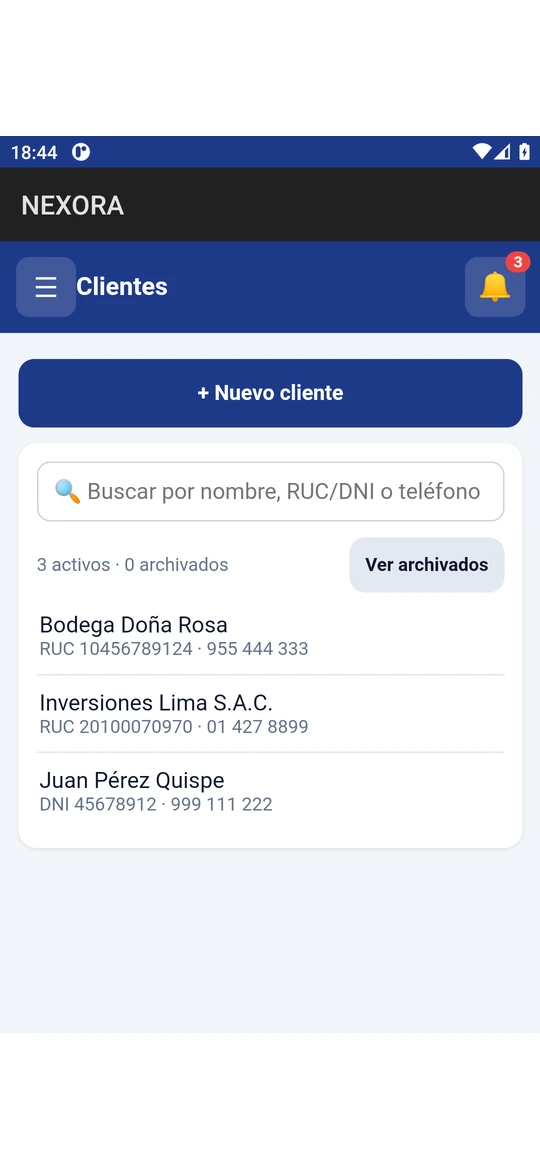
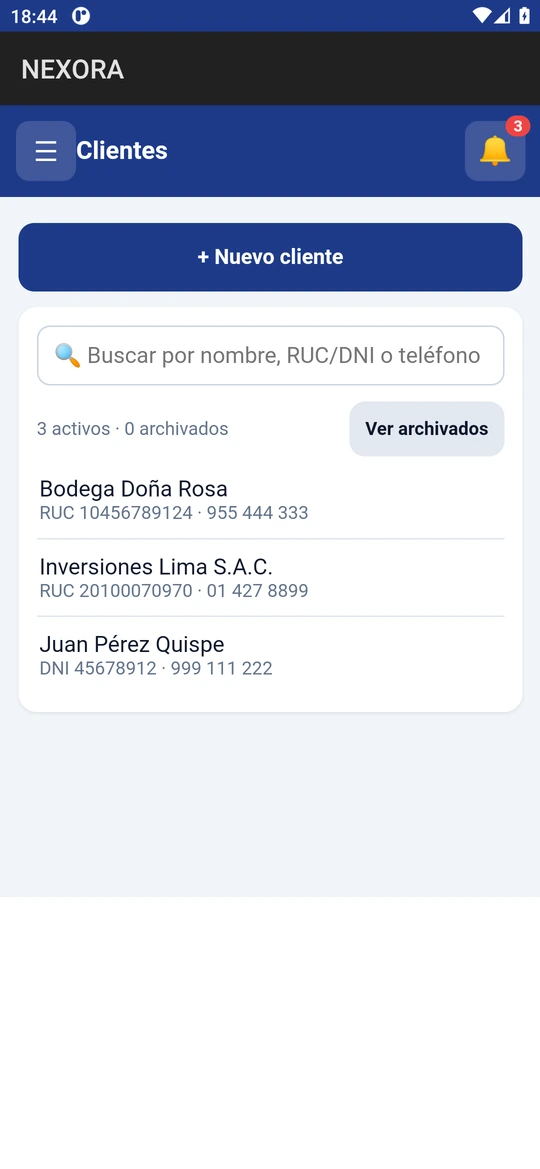
Top-align NEXORA fits and bump cache to v=4

diff --git a/index.html b/index.html
@@ -22,7 +22,7 @@
   <p class="lead">PROCESA, NEXORA y CortoStudio: apps Android en español para llevar tu planta, tu negocio y tus ideas un paso más allá.</p>
   <p class="cta"><a class="btn" href="#apps">Ver las apps</a><a class="more" href="#contacto">Escríbenos</a></p>
   <div class="stage">
-    <figure class="phone back"><img src="assets/img/nexora-cotizacion.webp?v=3" width="540" height="1169" alt="NEXORA: lista de cotizaciones"></figure>
+    <figure class="phone back"><img src="assets/img/nexora-cotizacion.webp?v=4" width="540" height="1169" alt="NEXORA: lista de cotizaciones"></figure>
     <figure class="phone front"><img src="assets/img/procesa-diagrama.webp" width="540" height="1169" alt="PROCESA: diagrama de flujo HACCP de una mermelada, con sus puntos críticos de control" fetchpriority="high"></figure>
     <figure class="phone far"><img src="assets/img/corto-inicio.webp" width="540" height="1169" alt="CortoStudio: editar un cortometraje, con título, género y estilo visual"></figure>
   </div>
@@ -60,9 +60,9 @@
     <p class="meta">App para Android</p>
   </div>
   <div class="show rev">
-    <div class="shot"><figure class="phone "><img src="assets/img/nexora-cotizacion.webp?v=3" width="540" height="1169" alt="NEXORA: lista de cotizaciones" loading="lazy"></figure></div>
+    <div class="shot"><figure class="phone "><img src="assets/img/nexora-cotizacion.webp?v=4" width="540" height="1169" alt="NEXORA: lista de cotizaciones" loading="lazy"></figure></div>
     <div class="list">
-      <ul class="feats" aria-label="Funciones de NEXORA: toca una marcada para ver su pantalla"><li><button type="button" class="feat" data-shot="assets/img/nexora-cotizacion.webp?v=3" data-alt="NEXORA: lista de cotizaciones" aria-pressed="true">Cotizaciones en PDF</button></li><li><span class="feat-plain">Facturas y boletas, con facturación electrónica SUNAT</span></li><li><button type="button" class="feat" data-shot="assets/img/nexora-guia.webp?v=3" data-alt="NEXORA: guía de remisión" aria-pressed="false">Guías de remisión</button></li><li><button type="button" class="feat" data-shot="assets/img/nexora-cxc.webp?v=3" data-alt="NEXORA: cuentas por cobrar de clientes" aria-pressed="false">Clientes y cuentas por cobrar</button></li><li><span class="feat-plain">Inventario con kardex</span></li><li><button type="button" class="feat" data-shot="assets/img/nexora-saldos.webp?v=3" data-alt="NEXORA: caja y saldos por cuenta bancaria" aria-pressed="false">Caja y cuentas bancarias</button></li><li><span class="feat-plain">Pagos recibidos por Yape y Plin</span></li><li><span class="feat-plain">Reportes mensuales en PDF y Excel, e impresión Bluetooth</span></li></ul>
+      <ul class="feats" aria-label="Funciones de NEXORA: toca una marcada para ver su pantalla"><li><button type="button" class="feat" data-shot="assets/img/nexora-cotizacion.webp?v=4" data-alt="NEXORA: lista de cotizaciones" aria-pressed="true">Cotizaciones en PDF</button></li><li><span class="feat-plain">Facturas y boletas, con facturación electrónica SUNAT</span></li><li><button type="button" class="feat" data-shot="assets/img/nexora-guia.webp?v=4" data-alt="NEXORA: guía de remisión" aria-pressed="false">Guías de remisión</button></li><li><button type="button" class="feat" data-shot="assets/img/nexora-cxc.webp?v=4" data-alt="NEXORA: cuentas por cobrar de clientes" aria-pressed="false">Clientes y cuentas por cobrar</button></li><li><span class="feat-plain">Inventario con kardex</span></li><li><button type="button" class="feat" data-shot="assets/img/nexora-saldos.webp?v=4" data-alt="NEXORA: caja y saldos por cuenta bancaria" aria-pressed="false">Caja y cuentas bancarias</button></li><li><span class="feat-plain">Pagos recibidos por Yape y Plin</span></li><li><span class="feat-plain">Reportes mensuales en PDF y Excel, e impresión Bluetooth</span></li></ul>
       <p class="note">Las capturas muestran datos de ejemplo. <a href="privacidad-nexora.html">Política de privacidad de NEXORA</a></p>
     </div>
   </div>
